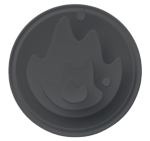
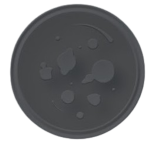
Update reddit post

diff --git a/_posts/2024-04-07-reddit-mobile-achievements-guide.md b/_posts/2024-04-07-reddit-mobile-achievements-guide.md
@@ -70,17 +70,16 @@ The streak achievements are simple loyalty rewards, requiring some sort of activ
 
 [![Reddit streak achievement tracking](/assets/images/2024/reddit-streak.png)](/assets/images/2024/reddit-streak.png)
 
-Note that many of these achievements cannot be obtained yet, as the achievements have not been out long enough. The 300-day achievement was earned by [u/Speedy1904](https://www.reddit.com/user/Speedy1904/) on the [7th September](https://www.reddit.com/r/notinteresting/comments/1fb1ris/im_the_first_person_to_complete_the_300_day/), so the 500 day should be available 26th March! Reddit seems to regularly add new streak badges, with a batch of 7 being added in February 2025.
+Note that many of these achievements cannot be obtained yet, as the achievements have not been out long enough. The 300-day achievement was earned by [u/Speedy1904](https://www.reddit.com/user/Speedy1904/) on the [7th September](https://www.reddit.com/r/notinteresting/comments/1fb1ris/im_the_first_person_to_complete_the_300_day/), so the 500 day should be available 26th March! Reddit seems to regularly add new streak badges (or adjust existing ones), with a batch of 7 being added in February 2025 before being mostly removed in March.
 
-|                                                                                                                                                                                                                                        |                                                                                                                                                                                                                                             |                                                                                                                                                                                                                                                            |
-| :------------------------------------------------------------------------------------------------------------------------------------------------------------------------------------------------------------------------------------: | :-----------------------------------------------------------------------------------------------------------------------------------------------------------------------------------------------------------------------------------------: | :--------------------------------------------------------------------------------------------------------------------------------------------------------------------------------------------------------------------------------------------------------: |
-|        [![5 day streak Reddit achievement](/assets/images/2024/reddit-5day.png)](/assets/images/2024/reddit-5day.png)<br>**5-day streak** (Common)<br>Use the Reddit app (upvote / post / comment / share) for 5 days in a row         |       [![10 day streak Reddit achievement](/assets/images/2024/reddit-10day.png)](/assets/images/2024/reddit-10day.png)<br>**10-day streak** (Common) <br> Use the Reddit app (upvote / post / comment / share) for 10 days in a row        |               [![20 day streak Reddit achievement](/assets/images/2024/reddit-20day.png)](/assets/images/2024/reddit-20day.png)<br>**20-day streak** (Common) <br> Use the Reddit app (upvote / post / comment / share) for 20 days in a row               |
-|     [![30 day streak Reddit achievement](/assets/images/2024/reddit-30day.png)](/assets/images/2024/reddit-30day.png)<br>**30-day streak** (Common) <br> Use the Reddit app (upvote / post / comment / share) for 30 days in a row     |       [![40 day streak Reddit achievement](/assets/images/2024/reddit-40day.png)](/assets/images/2024/reddit-40day.png)<br>**40-day streak** (Common) <br> Use the Reddit app (upvote / post / comment / share) for 40 days in a row        |               [![50 day streak Reddit achievement](/assets/images/2024/reddit-50day.png)](/assets/images/2024/reddit-50day.png)<br>**50-day streak** (Common) <br> Use the Reddit app (upvote / post / comment / share) for 50 days in a row               |
-|     [![75 day streak Reddit achievement](/assets/images/2024/reddit-75day.png)](/assets/images/2024/reddit-75day.png)<br>**75-day streak** (Common) <br> Use the Reddit app (upvote / post / comment / share) for 75 days in a row     |      [![100 day streak Reddit achievement](/assets/images/2024/reddit-100day.png)](/assets/images/2024/reddit-100day.png)<br>**100-day streak** (Rare) <br> Use the Reddit app (upvote / post / comment / share) for 100 days in a row      |             [![150 day streak Reddit achievement](/assets/images/2024/reddit-150day.png)](/assets/images/2024/reddit-150day.png)<br>**150-day streak** (Epic) <br> Use the Reddit app (upvote / post / comment / share) for 150 days in a row              |
-|   [![200 day streak Reddit achievement](/assets/images/2024/reddit-200day.png)](/assets/images/2024/reddit-200day.png)<br>**200-day streak** (Epic) <br> Use the Reddit app (upvote / post / comment / share) for 200 days in a row    |   [![300 day streak Reddit achievement](/assets/images/2024/reddit-300day.png)](/assets/images/2024/reddit-300day.png)<br>**300-day streak** (Legendary) <br> Use the Reddit app (upvote / post / comment / share) for 300 days in a row    |           [![365 day streak Reddit achievement](/assets/images/2024/reddit-365day.png)](/assets/images/2024/reddit-365day.png)<br>**365-day streak** (Legendary) <br>Use the Reddit app (upvote / post / comment / share) for 365 days in a row            |
-| [![400 day streak Reddit achievement](/assets/images/2024/reddit-400day.png)](/assets/images/2024/reddit-400day.png)<br>**400-day streak** (Legendary) <br> Use the Reddit app (upvote / post / comment / share) for 400 days in a row |   [![500 day streak Reddit achievement](/assets/images/2024/reddit-500day.png)](/assets/images/2024/reddit-500day.png)<br>**500-day streak** (Legendary) <br> Use the Reddit app (upvote / post / comment / share) for 500 days in a row    |           [![600 day streak Reddit achievement](/assets/images/2024/reddit-600day.png)](/assets/images/2024/reddit-600day.png)<br>**600-day streak** (Legendary) <br> Use the Reddit app (upvote / post / comment / share) for 600 days in a row           |
-| [![700 day streak Reddit achievement](/assets/images/2024/reddit-700day.png)](/assets/images/2024/reddit-700day.png)<br>**700-day streak** (Legendary) <br> Use the Reddit app (upvote / post / comment / share) for 700 days in a row |   [![730 day streak Reddit achievement](/assets/images/2024/reddit-730day.png)](/assets/images/2024/reddit-730day.png)<br>**730-day streak** (Legendary) <br> Use the Reddit app (upvote / post / comment / share) for 730 days in a row    |           [![800 day streak Reddit achievement](/assets/images/2024/reddit-800day.png)](/assets/images/2024/reddit-800day.png)<br>**800-day streak** (Legendary) <br> Use the Reddit app (upvote / post / comment / share) for 800 days in a row           |
-| [![900 day streak Reddit achievement](/assets/images/2024/reddit-900day.png)](/assets/images/2024/reddit-900day.png)<br>**900-day streak** (Legendary) <br> Use the Reddit app (upvote / post / comment / share) for 900 days in a row | [![1000 day streak Reddit achievement](/assets/images/2024/reddit-1000day.png)](/assets/images/2024/reddit-1000day.png)<br>**1000-day streak** (Legendary) <br> Use the Reddit app (upvote / post / comment / share) for 1000 days in a row | [![Basement Dweller Reddit achievement](/assets/images/2024/reddit-basementdweller.png)](/assets/images/2024/reddit-basementdweller.png)<br>**Basement Dweller** (Legendary)<br>Use the Reddit app (upvote / post / comment / share) for ??? days in a row |
+|                                                                                                                                                                                                                                        |                                                                                                                                                                                                                                                            |                                                                                                                                                                                                                                        |
+| :------------------------------------------------------------------------------------------------------------------------------------------------------------------------------------------------------------------------------------: | :--------------------------------------------------------------------------------------------------------------------------------------------------------------------------------------------------------------------------------------------------------: | :------------------------------------------------------------------------------------------------------------------------------------------------------------------------------------------------------------------------------------: |
+|        [![5 day streak Reddit achievement](/assets/images/2024/reddit-5day.png)](/assets/images/2024/reddit-5day.png)<br>**5-day streak** (Common)<br>Use the Reddit app (upvote / post / comment / share) for 5 days in a row         |               [![10 day streak Reddit achievement](/assets/images/2024/reddit-10day.png)](/assets/images/2024/reddit-10day.png)<br>**10-day streak** (Common) <br> Use the Reddit app (upvote / post / comment / share) for 10 days in a row               |     [![20 day streak Reddit achievement](/assets/images/2024/reddit-20day.png)](/assets/images/2024/reddit-20day.png)<br>**20-day streak** (Common) <br> Use the Reddit app (upvote / post / comment / share) for 20 days in a row     |
+|     [![30 day streak Reddit achievement](/assets/images/2024/reddit-30day.png)](/assets/images/2024/reddit-30day.png)<br>**30-day streak** (Common) <br> Use the Reddit app (upvote / post / comment / share) for 30 days in a row     |               [![40 day streak Reddit achievement](/assets/images/2024/reddit-40day.png)](/assets/images/2024/reddit-40day.png)<br>**40-day streak** (Common) <br> Use the Reddit app (upvote / post / comment / share) for 40 days in a row               |     [![50 day streak Reddit achievement](/assets/images/2024/reddit-50day.png)](/assets/images/2024/reddit-50day.png)<br>**50-day streak** (Common) <br> Use the Reddit app (upvote / post / comment / share) for 50 days in a row     |
+|     [![75 day streak Reddit achievement](/assets/images/2024/reddit-75day.png)](/assets/images/2024/reddit-75day.png)<br>**75-day streak** (Common) <br> Use the Reddit app (upvote / post / comment / share) for 75 days in a row     |             [![100 day streak Reddit achievement](/assets/images/2024/reddit-100day.png)](/assets/images/2024/reddit-100day.png)<br>**100-day streak** (Rare) <br> Use the Reddit app (upvote / post / comment / share) for 100 days in a row              |   [![150 day streak Reddit achievement](/assets/images/2024/reddit-150day.png)](/assets/images/2024/reddit-150day.png)<br>**150-day streak** (Epic) <br> Use the Reddit app (upvote / post / comment / share) for 150 days in a row    |
+|   [![200 day streak Reddit achievement](/assets/images/2024/reddit-200day.png)](/assets/images/2024/reddit-200day.png)<br>**200-day streak** (Epic) <br> Use the Reddit app (upvote / post / comment / share) for 200 days in a row    |           [![300 day streak Reddit achievement](/assets/images/2024/reddit-300day.png)](/assets/images/2024/reddit-300day.png)<br>**300-day streak** (Legendary) <br> Use the Reddit app (upvote / post / comment / share) for 300 days in a row           | [![365 day streak Reddit achievement](/assets/images/2024/reddit-365day.png)](/assets/images/2024/reddit-365day.png)<br>**365-day streak** (Legendary) <br>Use the Reddit app (upvote / post / comment / share) for 365 days in a row  |
+| [![400 day streak Reddit achievement](/assets/images/2024/reddit-400day.png)](/assets/images/2024/reddit-400day.png)<br>**400-day streak** (Legendary) <br> Use the Reddit app (upvote / post / comment / share) for 400 days in a row |           [![500 day streak Reddit achievement](/assets/images/2024/reddit-500day.png)](/assets/images/2024/reddit-500day.png)<br>**500-day streak** (Legendary) <br> Use the Reddit app (upvote / post / comment / share) for 500 days in a row           | [![600 day streak Reddit achievement](/assets/images/2024/reddit-600day.png)](/assets/images/2024/reddit-600day.png)<br>**600-day streak** (Legendary) <br> Use the Reddit app (upvote / post / comment / share) for 600 days in a row |
+| [![700 day streak Reddit achievement](/assets/images/2024/reddit-700day.png)](/assets/images/2024/reddit-700day.png)<br>**700-day streak** (Legendary) <br> Use the Reddit app (upvote / post / comment / share) for 700 days in a row | [![Basement Dweller Reddit achievement](/assets/images/2024/reddit-basementdweller.png)](/assets/images/2024/reddit-basementdweller.png)<br>**Basement Dweller** (Legendary)<br>Use the Reddit app (upvote / post / comment / share) for 730 days in a row |                                                                                                                                                                                                                                        |
 
 ## Exploration (22)
 
